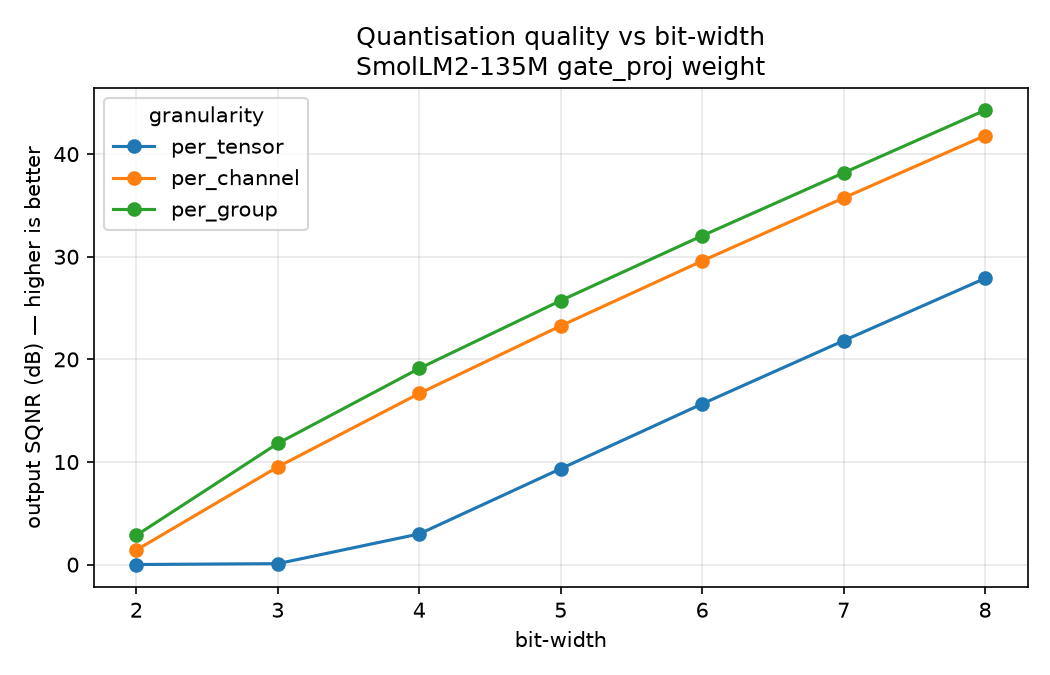
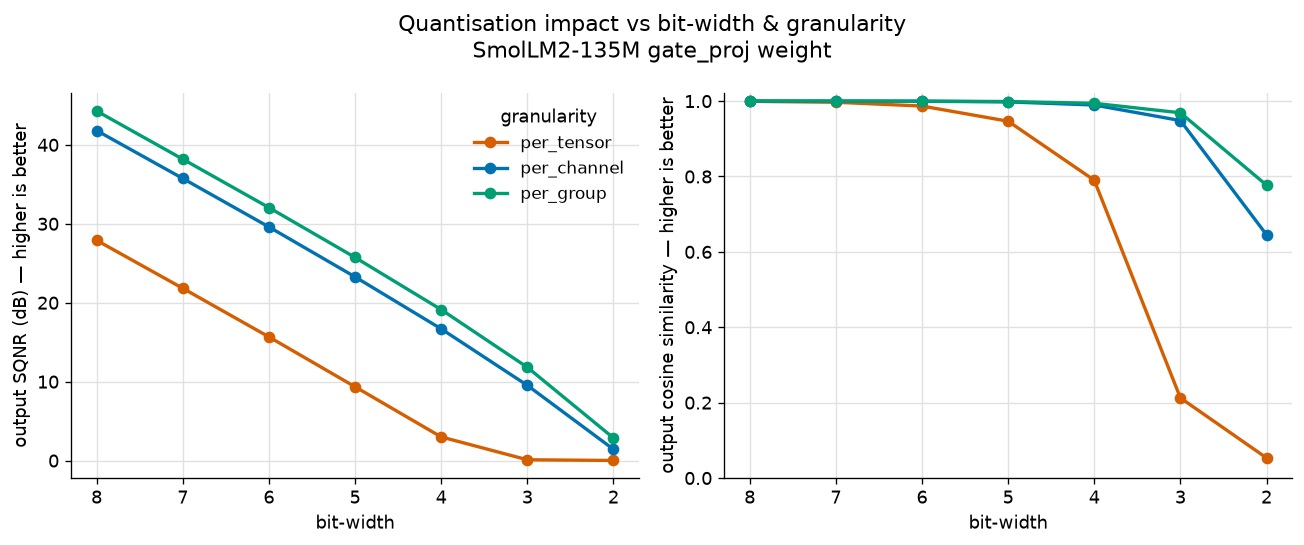
T1: production hardening + gold-standard plots + unit tests
Addresses code-review findings and upgrades the artefact to a production bar:
- quantise.py: validate n_bits in [2,8] (int8-storage bound) and group_size >= 1;
  fix docstring/comment typos.
- metrics.py: guard sqnr_db against a zero-signal reference (-inf, no RuntimeWarning).
- probe.py: run_sweep returns (results, weight) so the plotter reuses the load.
- plot.py: Okabe-Ito colourblind-safe palette; two-panel SQNR + cosine vs bit-width
  (the two standard, independent fidelity axes); recessive axes/grid.
- test_t01.py: 8 real unit tests (hand-computed codes, roundtrip, per-channel-beats-
  per-tensor-on-outlier, input-validation, metric invariants); pytest scans topics/.

diff --git a/topics/t01_number_representation/plot.py b/topics/t01_number_representation/plot.py
@@ -1,11 +1,15 @@
 """Plots for the quantisation study — writes two PNGs into results/.
 
-- quality_vs_bits.png : output SQNR vs bit-width, one line per granularity. The degradation
-  curve and the granularity gap, at a glance.
-- weight_outliers.png : the |weight| distribution with the int4 per-tensor step marked — shows
-  *why* per-tensor collapses (most weights fall below a single quantisation step).
+Uses the Okabe-Ito colourblind-safe categorical palette (assigned to granularities in a fixed
+order, never cycled), recessive axes/grid, and direct legends, so the figures read as designed
+rather than default-matplotlib.
 
-  uv run python topics/t01_number_representation/plot.py
+  - quality_vs_bits.png : two panels — output SQNR (dB) and output cosine — vs bit-width, one line
+    per granularity. The standard quant-fidelity view of how granularity x bit-width drives impact.
+  - weight_outliers.png : the |weight| distribution with the int4 per-tensor step marked — the
+    mechanism behind the per-tensor collapse.
+
+    uv run python topics/t01_number_representation/plot.py
 """
 
 from __future__ import annotations
@@ -15,60 +19,98 @@ from pathlib import Path
 import matplotlib.pyplot as plt
 import numpy as np
 import numpy.typing as npt
-from load_weights import load_linear_weight
+from matplotlib.axes import Axes
 from probe import GRANULARITIES, Result, run_sweep
 
 RESULTS_DIR = Path(__file__).parent / "results"
 
+# Okabe-Ito colourblind-safe palette, assigned to granularities in fixed order (never cycled).
+GRAN_COLOR: dict[str, str] = {
+    "per_tensor": "#D55E00",  # vermillion
+    "per_channel": "#0072B2",  # blue
+    "per_group": "#009E73",  # bluish green
+}
+
+plt.rcParams.update(
+    {
+        "figure.dpi": 120,
+        "font.size": 11,
+        "axes.titlesize": 12,
+        "axes.labelsize": 11,
+        "legend.fontsize": 10,
+        "axes.spines.top": False,
+        "axes.spines.right": False,
+    }
+)
+
+
+def _style(ax: Axes) -> None:
+    ax.grid(True, color="0.88", linewidth=0.8)
+    ax.set_axisbelow(True)
+    ax.invert_xaxis()  # 8 bits (left) -> 2 bits (right): more compression rightward
+    ax.set_xlabel("bit-width")
+
 
 def plot_quality_vs_bits(results: list[Result]) -> Path:
-    """Line chart: output SQNR (dB) vs bit-width, one line per granularity."""
-    fig, ax = plt.subplots(figsize=(7, 4.5))
+    """Two panels — output SQNR (dB) and output cosine — vs bit-width, one line per granularity."""
+    fig, (ax_sqnr, ax_cos) = plt.subplots(1, 2, figsize=(11, 4.6))
     for gran in GRANULARITIES:
         rows = sorted((r for r in results if r.granularity == gran), key=lambda r: r.n_bits)
-        ax.plot([r.n_bits for r in rows], [r.out_sqnr for r in rows], marker="o", label=gran)
-    ax.set_xlabel("bit-width")
-    ax.set_ylabel("output SQNR (dB) — higher is better")
-    ax.set_title("Quantisation quality vs bit-width\nSmolLM2-135M gate_proj weight")
-    ax.legend(title="granularity")
-    ax.grid(True, alpha=0.3)
+        bits = [r.n_bits for r in rows]
+        color = GRAN_COLOR[gran]
+        ax_sqnr.plot(
+            bits, [r.out_sqnr for r in rows], marker="o", ms=6, lw=2, color=color, label=gran
+        )
+        ax_cos.plot(
+            bits, [r.out_cos for r in rows], marker="o", ms=6, lw=2, color=color, label=gran
+        )
+    ax_sqnr.set_ylabel("output SQNR (dB) — higher is better")
+    ax_cos.set_ylabel("output cosine similarity — higher is better")
+    ax_cos.set_ylim(0, 1.02)
+    for ax in (ax_sqnr, ax_cos):
+        _style(ax)
+    ax_sqnr.legend(title="granularity", frameon=False)
+    fig.suptitle(
+        "Quantisation impact vs bit-width & granularity\nSmolLM2-135M gate_proj weight", fontsize=13
+    )
     fig.tight_layout()
     path = RESULTS_DIR / "quality_vs_bits.png"
-    fig.savefig(path, dpi=150)
+    fig.savefig(path, bbox_inches="tight")
     plt.close(fig)
     return path
 
 
 def plot_weight_outliers(w: npt.NDArray[np.float32]) -> Path:
-    """Histogram of |weight|, with the int4 per-tensor step and the max marked."""
+    """Histogram of |weight| with the int4 per-tensor step and the max marked."""
     absw = np.abs(w).reshape(-1)
     max_abs = float(absw.max())
     int4_step = max_abs / (2 ** (4 - 1) - 1)  # per-tensor int4 step = max / 7
 
-    fig, ax = plt.subplots(figsize=(7, 4.5))
-    ax.hist(absw, bins=120)
+    fig, ax = plt.subplots(figsize=(7.5, 4.6))
+    ax.hist(absw, bins=120, color="#56B4E9", edgecolor="none")
     ax.set_yscale("log")
     ax.axvline(
-        int4_step, color="red", linestyle="--", label=f"int4 per-tensor step ≈ {int4_step:.2f}"
+        int4_step, color="#D55E00", lw=2, ls="--", label=f"int4 per-tensor step ≈ {int4_step:.2f}"
     )
     ax.axvline(
-        max_abs, color="black", linestyle=":", label=f"max|w| = {max_abs:.2f} (sets the scale)"
+        max_abs, color="0.2", lw=1.5, ls=":", label=f"max|w| = {max_abs:.2f} (sets the scale)"
     )
     ax.set_xlabel("|weight|")
     ax.set_ylabel("count (log scale)")
-    ax.set_title("Why per-tensor int4 collapses\nmost weights fall below a single quant step")
-    ax.legend()
+    ax.set_title("Why per-tensor int4 collapses:\nmost weights fall below a single quant step")
+    ax.grid(True, axis="y", color="0.88", linewidth=0.8)
+    ax.set_axisbelow(True)
+    ax.legend(frameon=False)
     fig.tight_layout()
     path = RESULTS_DIR / "weight_outliers.png"
-    fig.savefig(path, dpi=150)
+    fig.savefig(path, bbox_inches="tight")
     plt.close(fig)
     return path
 
 
 def main() -> None:
     RESULTS_DIR.mkdir(exist_ok=True)
-    results = run_sweep()
-    w = load_linear_weight()
+    results, w = run_sweep()
     p1 = plot_quality_vs_bits(results)
     p2 = plot_weight_outliers(w)
     print(f"\nwrote {p1}")

diff --git a/topics/t01_number_representation/quantise.py b/topics/t01_number_representation/quantise.py
@@ -30,7 +30,7 @@ def quantise_symmetric(
     Args:
         w: weight matrix, shape (out_features, in_features). Each row = one output channel.
         n_bits: bit-width of the integer grid (8 for int8)
-        granularity: how manhy scales to use"
+        granularity: how many scales to use:
             - "per_tensor": one scale for the whole matrix.
             - "per_channel": one scale per row(output channel)
             - "per_group": one scale per group of "group_size" within each row
@@ -40,7 +40,12 @@ def quantise_symmetric(
         (q, scale) where q = integer codes (same shape as w, int8) and scale is
         broadcastable to w's shape, so dequantise is just q * scale.
     """
-    #  Biggest integer the signed grid holds, eg int8 -> 2^7 -1 = 127.
+    # int8 storage requires 2 <= n_bits <= 8: below 2 the grid collapses (qmax 0 -> all zeros),
+    # above 8 the codes overflow int8 silently.
+    if not 2 <= n_bits <= 8:
+        raise ValueError(f"n_bits must be in [2, 8] for int8 storage, got {n_bits}")
+
+    #  Biggest integer the signed grid holds, e.g. int8 -> 2^7 - 1 = 127.
     qmax = 2 ** (n_bits - 1) - 1
 
     # ---1) find max|w| at requested granularity
@@ -52,18 +57,20 @@ def quantise_symmetric(
         max_abs = np.abs(w).max(axis=1, keepdims=True)
     elif granularity == "per_group":
         rows, cols = w.shape
-        if cols % group_size != 0:
-            raise ValueError(f"in_features {cols} not divisible by group_size {group_size}")
+        if group_size < 1 or cols % group_size != 0:
+            raise ValueError(
+                f"group_size must be >= 1 and divide in_features {cols}, got {group_size}"
+            )
         n_groups = cols // group_size
-        # Split each row into groups and take max|w| per group -> (rows,_groups), then
-        # repeat each group's value across its own columns -> back to (row, cols)
+        # Split each row into groups and take max|w| per group -> (rows, n_groups), then
+        # repeat each group's value across its own columns -> back to (rows, cols)
         grouped = np.abs(w).reshape(rows, n_groups, group_size).max(axis=2)
         max_abs = np.repeat(grouped, group_size, axis=1)
     else:
         raise ValueError(f"unknown granularity: {granularity!r}")
 
-    # scale = max|w| / qmax. Clamp max_abs off zero to avoid duvide by zero on an all zero
-    # tensor/row/group (real weights won't be, but production code guards it)
+    # scale = max|w| / qmax. Clamp max_abs off zero to avoid divide-by-zero on an all-zero
+    # tensor/row/group (real weights won't be, but production code guards it).
     scale = np.asarray(np.maximum(max_abs, 1e-8) / qmax, dtype=np.float32)
 
     # ---2) snap to nearest grid point, clamp into range, store as ints ---

diff --git a/topics/t01_number_representation/test_t01.py b/topics/t01_number_representation/test_t01.py
@@ -1,0 +1,63 @@
+"""Unit tests for the T1 quantiser and metrics.
+
+These assert the behaviour the `_selftest` demos only printed — so a regression fails CI instead
+of a human having to eyeball the numbers.
+"""
+
+from __future__ import annotations
+
+import numpy as np
+import pytest
+from metrics import cosine_similarity, relative_error, sqnr_db
+from quantise import dequantise, quantise_symmetric
+
+
+def test_quantise_hand_computed() -> None:
+    # max|w| = 0.8, int8 symmetric -> scale = 0.8/127; the by-hand integer codes.
+    w = np.array([[0.5, -0.8, 0.02, 0.0]], dtype=np.float32)
+    q, scale = quantise_symmetric(w, n_bits=8, granularity="per_tensor")
+    assert q.tolist() == [[79, -127, 3, 0]]
+    assert float(scale) == pytest.approx(0.8 / 127, rel=1e-4)
+
+
+def test_dequantise_roundtrip_close() -> None:
+    w = np.array([[0.5, -0.8, 0.02, 0.0]], dtype=np.float32)
+    w_hat = dequantise(*quantise_symmetric(w, n_bits=8, granularity="per_tensor"))
+    assert float(np.max(np.abs(w - w_hat))) < 0.01
+
+
+def test_per_channel_beats_per_tensor_on_outlier() -> None:
+    rng = np.random.default_rng(0)
+    w = (rng.standard_normal((8, 32)) * 0.1).astype(np.float32)
+    w[0] *= 50.0  # one outlier channel would dominate a single per-tensor scale
+    wt = dequantise(*quantise_symmetric(w, 4, "per_tensor"))
+    wc = dequantise(*quantise_symmetric(w, 4, "per_channel"))
+    assert sqnr_db(w, wc) > sqnr_db(w, wt)
+
+
+def test_n_bits_out_of_range_raises() -> None:
+    w = np.zeros((4, 8), dtype=np.float32)
+    for bad in (1, 9, 16):
+        with pytest.raises(ValueError):
+            quantise_symmetric(w, bad, "per_tensor")
+
+
+def test_per_group_requires_valid_group_size() -> None:
+    w = np.zeros((4, 30), dtype=np.float32)
+    for bad in (0, 64):  # 0 invalid; 64 does not divide 30
+        with pytest.raises(ValueError):
+            quantise_symmetric(w, 8, "per_group", group_size=bad)
+
+
+def test_metrics_on_identical_inputs() -> None:
+    a = np.array([1.0, 2.0, 3.0], dtype=np.float32)
+    assert sqnr_db(a, a) == float("inf")
+    assert relative_error(a, a) == 0.0
+    assert cosine_similarity(a, a) == pytest.approx(1.0, abs=1e-4)
+
+
+def test_cosine_ignores_scale_but_relerr_does_not() -> None:
+    a = np.array([3.0, 4.0], dtype=np.float32)
+    b = a * 2.0  # same direction, double magnitude
+    assert cosine_similarity(a, b) == pytest.approx(1.0, abs=1e-5)
+    assert relative_error(a, b) == pytest.approx(1.0, abs=1e-4)  # 100% error

diff --git a/topics/t01_number_representation/probe.py b/topics/t01_number_representation/probe.py
@@ -8,7 +8,7 @@ fidelity two ways:
   - output fidelity : SQNR, relative error, and cosine of the layer output W @ x vs W_hat @ x on
     a random input x — the error inference actually experiences (weight error is only a proxy).
 
-`run_sweep` returns the results as a list of `Result` so the plotter can reuse them.
+`run_sweep` returns (results, weight) so the plotter can reuse both without re-loading.
 
     uv run python topics/t01_number_representation/probe.py
 """
@@ -20,7 +20,7 @@ from dataclasses import dataclass
 
 import numpy as np
 from load_weights import load_linear_weight
-from metrics import cosine_similarity, relative_error, sqnr_db
+from metrics import FloatArray, cosine_similarity, relative_error, sqnr_db
 from quantise import Granularity, dequantise, quantise_symmetric
 
 BIT_WIDTHS = [8, 7, 6, 5, 4, 3, 2]
@@ -40,7 +40,7 @@ class Result:
     out_cos: float  # output direction
 
 
-def run_sweep() -> list[Result]:
+def run_sweep() -> tuple[list[Result], FloatArray]:
     w = load_linear_weight()  # real SmolLM2 gate_proj weight, float32
     in_features = w.shape[1]
 
@@ -77,7 +77,7 @@ def run_sweep() -> list[Result]:
             f"{r.n_bits:>6} {r.granularity:>12} {r.w_sqnr:>8.2f} "
             f"{r.out_sqnr:>9.2f} {r.out_relerr * 100:>9.2f} {r.out_cos:>9.5f}"
         )
-    return results
+    return results, w
 
 
 if __name__ == "__main__":

diff --git a/topics/t01_number_representation/metrics.py b/topics/t01_number_representation/metrics.py
@@ -35,6 +35,8 @@ def sqnr_db(reference: FloatArray, approx: FloatArray) -> float:
     noise_power = float(np.mean((reference - approx) ** 2))
     if noise_power == 0.0:
         return float("inf")  # perfect reconstruction — no noise
+    if signal_power == 0.0:
+        return float("-inf")  # no signal, only error
     return 10.0 * float(np.log10(signal_power / noise_power))
 
 
